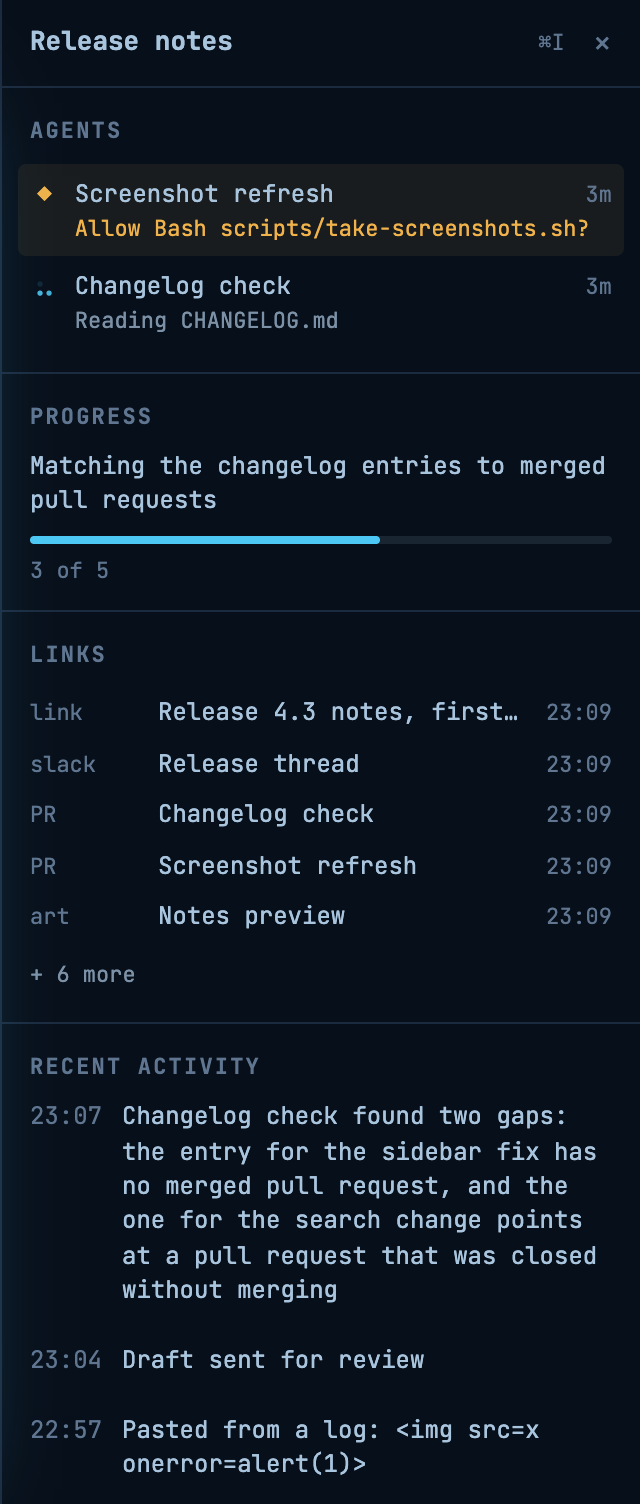
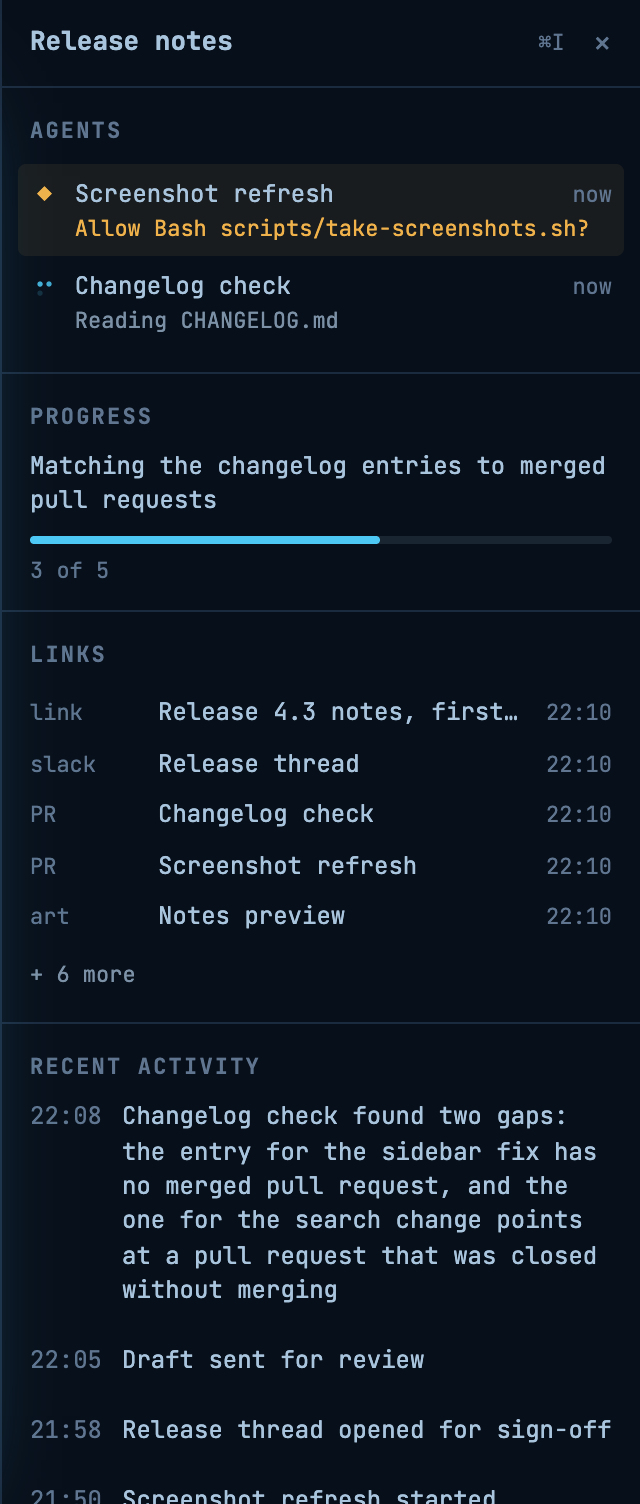
Use an ordinary line in the screenshot seed and retake the panel screenshots
The escaping case stays in the tests: a new seed test stores the markup as an activity
entry and reads it back unchanged, and PanelMarkdownTest still pins that it is shown as text.

diff --git a/server/src/test/kotlin/se/soderbjorn/lunamux/AgentsOverviewSeedTest.kt b/server/src/test/kotlin/se/soderbjorn/lunamux/AgentsOverviewSeedTest.kt
@@ -107,7 +107,8 @@ class AgentsOverviewSeedTest {
         assertEquals(setOf("progress", "links", "timeline"), rows.map { it.kind }.toSet())
         assertEquals(setOf("release notes agent"), rows.map { it.writtenBy }.toSet())
         val activity = rows.single { it.blockId == "activity" }
-        assertTrue("<img src=x onerror=alert(1)>" in activity.body, "markup is stored as the text it is")
+        assertTrue("Release thread opened for sign-off" in activity.body, "the activity holds ordinary lines only: ${activity.body}")
+        assertTrue("onerror" !in activity.body, "no test payload in the seed the screenshots are taken from")
         val shown = rows.filter { it.kind == "links" }.sumOf { r -> r.body.split("\"url\"").size - 1 }
         assertTrue(shown > 5, "the links are more than the five the panel shows, so it says \"+ N more\": $shown")
         // Reading it back through the store, as a server start does, gives the same blocks.
@@ -119,6 +120,27 @@ class AgentsOverviewSeedTest {
         stored.forEach { TaskPanelLimits.check(it) }
         AgentsOverviewSeed.seed(db, tasksDir, now + day)
         assertEquals(rows.size, repo().loadTaskPanelRows().count { it.taskId == "seed-task-notes" }, "seeding again replaces, never adds")
+    }
+
+    @Test
+    fun `an activity entry holding markup is stored and read back as the text it is`() {
+        AgentsOverviewSeed.seed(db, tasksDir, now)
+        val markup = "Pasted from a log: <img src=x onerror=alert(1)>"
+        val index = TaskIndex(repo(), AgentSessionTracker(repo()), MutableStateFlow(emptyList()), { null }, { now })
+        val block = TaskPanelBlock(
+            id = "activity", title = "Recent activity", writtenBy = "release notes agent", writtenAtMillis = now,
+            content = TaskBlockContent.Timeline(listOf(TaskTimelineItem(now, markup))),
+        )
+        TaskPanelLimits.check(block)
+        val rows = listOf(
+            SettingsRepository.TaskPanelRow(
+                taskId = "seed-task-notes", blockId = block.id, position = 0, kind = block.content.kindName, title = block.title,
+                body = windowJson.encodeToString(TaskBlockContent.serializer(), block.content), writtenBy = block.writtenBy, writtenAt = now,
+            ),
+        )
+        repo().replaceTaskPanel("seed-task-notes", rows)
+        val back = TaskPanelStore(repo(), index, { now }).blocksOf("seed-task-notes").single().content as TaskBlockContent.Timeline
+        assertEquals(markup, back.items.single().text, "markup is kept character for character, never turned into anything else")
     }
 
     @Test

diff --git a/server/src/main/kotlin/se/soderbjorn/lunamux/AgentsOverviewSeed.kt b/server/src/main/kotlin/se/soderbjorn/lunamux/AgentsOverviewSeed.kt
@@ -325,8 +325,8 @@ object AgentsOverviewSeed {
      * The links and the activity are longer than the five lines the panel shows, so the seeded
      * panel shows "+ N more". The activity list holds the awkward cases on purpose: one entry long
      * enough to wrap to three lines at the panel's narrowest width, directly followed by a
-     * one-line entry (the gap between the two must stay a full line), and one with markup that must
-     * stay text.
+     * one-line entry (the gap between the two must stay a full line). It carries no test payload:
+     * the seed is what the design screenshots are taken from.
      *
      * Called by [seedReleaseNotes]. The blocks are stored the way the panel store stores them, so
      * a server that starts on the seeded database shows them as soon as the task's main
@@ -374,7 +374,7 @@ object AgentsOverviewSeed {
                     listOf(
                         TaskTimelineItem(now - 2 * MINUTE, "Changelog check found two gaps: the entry for the sidebar fix has no merged pull request, and the one for the search change points at a pull request that was closed without merging"),
                         TaskTimelineItem(now - 5 * MINUTE, "Draft sent for review"),
-                        TaskTimelineItem(now - 12 * MINUTE, "Pasted from a log: <img src=x onerror=alert(1)>"),
+                        TaskTimelineItem(now - 12 * MINUTE, "Release thread opened for sign-off"),
                         TaskTimelineItem(now - 20 * MINUTE, "Screenshot refresh started"),
                         TaskTimelineItem(now - 40 * MINUTE, "Draft written"),
                         TaskTimelineItem(now - 70 * MINUTE, "Upgrade guide linked"),
